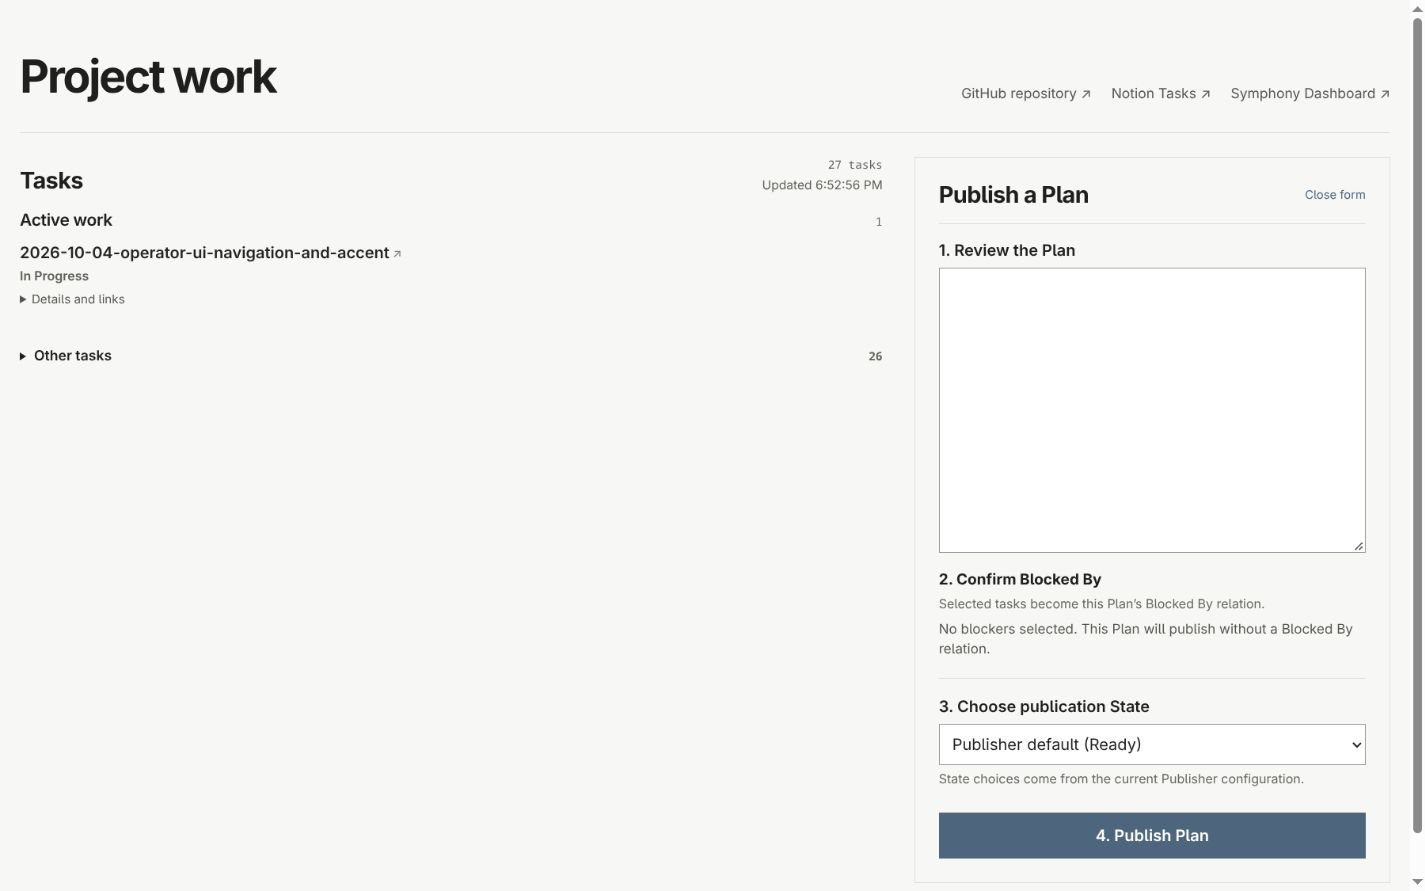
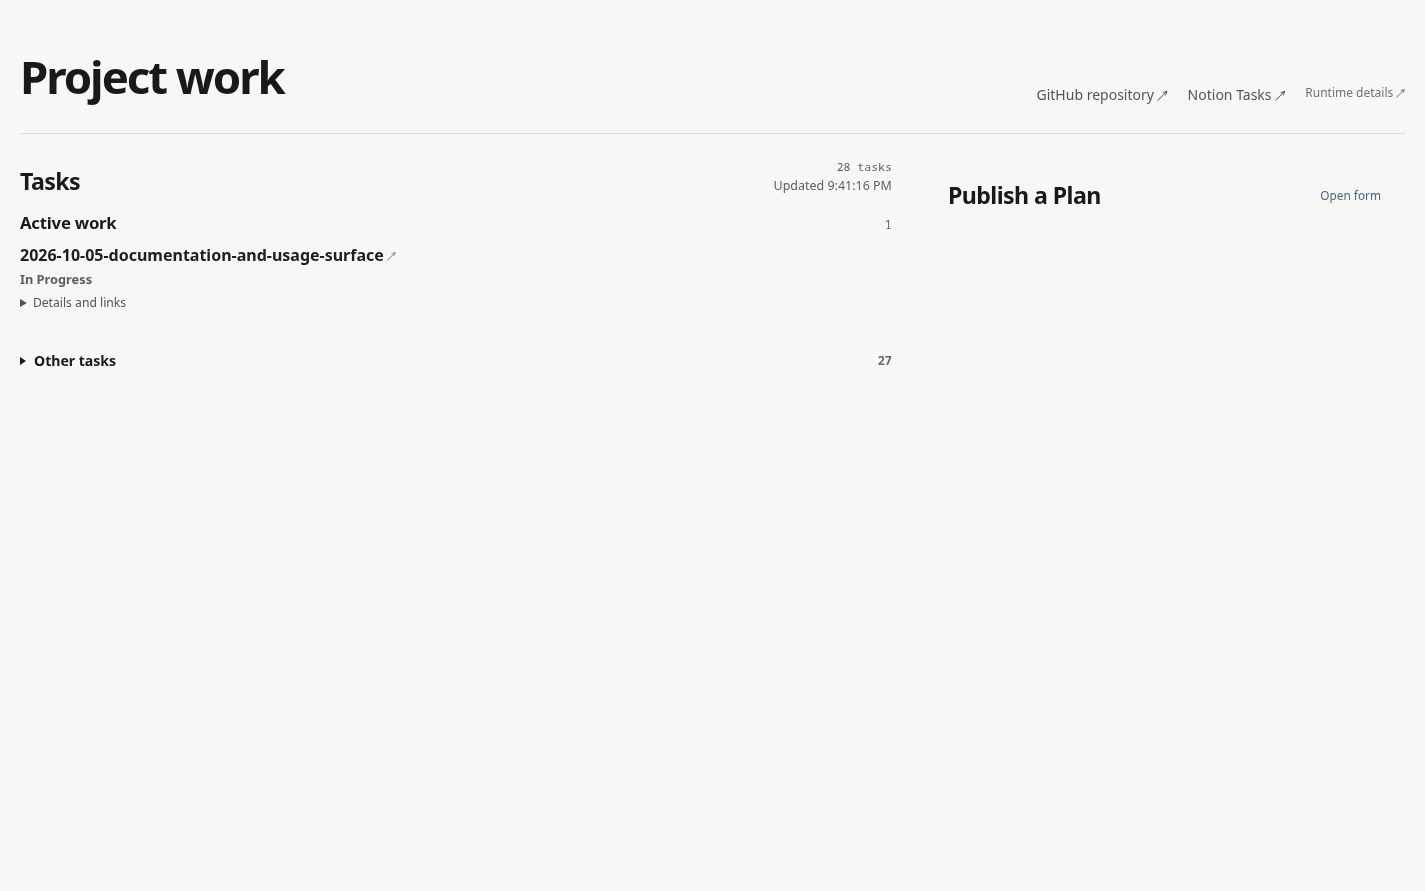
fix(ui): demote runtime diagnostics navigation

diff --git a/operator/ui/src/main.jsx b/operator/ui/src/main.jsx
@@ -322,7 +322,7 @@ function App() {
         <nav className="related-work" aria-label="Project navigation">
           {config?.githubRepositoryUrl && <a href={config.githubRepositoryUrl} target="_blank" rel="noreferrer">GitHub repository ↗</a>}
           {config?.notionTasksUrl && <a href={config.notionTasksUrl} target="_blank" rel="noreferrer">Notion Tasks ↗</a>}
-          {config?.dashboardUrl && <a href={config.dashboardUrl} target="_blank" rel="noreferrer">Symphony Dashboard ↗</a>}
+          {config?.dashboardUrl && <a className="runtime-details" href={config.dashboardUrl} target="_blank" rel="noreferrer">Runtime details ↗</a>}
         </nav>
       </header>
       <main className="work-layout">

diff --git a/operator/ui/src/style.css b/operator/ui/src/style.css
@@ -22,6 +22,7 @@ h1, h2, h3, h4, p { margin-top: 0; }
 h1 { margin-bottom: .25rem; font-size: clamp(2rem, 3.2vw, 3rem); line-height: 1.08; letter-spacing: -.045em; }
 .related-work { display: flex; flex-wrap: wrap; gap: .55rem 1.25rem; font-size: .875rem; }
 .related-work a { color: #555550; text-decoration: none; }
+.related-work .runtime-details { color: #73736d; font-size: .75rem; }
 .related-work a:hover { color: var(--accent); text-decoration: underline; text-underline-offset: .18em; }
 .work-layout { display: grid; grid-template-columns: minmax(0, 1.45fr) minmax(19rem, .8fr); align-items: start; gap: 2rem; padding-top: 1.5rem; }
 .task-surface { min-width: 0; }

diff --git a/README.md b/README.md
@@ -71,9 +71,9 @@ npm start
 
 The first start prepares the included dependencies and opens the Operator page in your browser. If it does not open automatically, visit <http://127.0.0.1:4310>. The page links to the target repository and Notion tasks, lists active and other tasks, and provides the Plan publishing form.
 
-![Operator page with the task list and Plan publishing form](docs/images/operator-overview.png)
+![Operator page with the task list and Plan publishing entry point](docs/images/operator-overview.png)
 
-_The task list is live, so its tasks and counts will change. The screenshot shows the Operator layout and main actions._
+_The task list is live, so its tasks and counts will change. Open **Publish a Plan** to enter a Plan and choose its State._
 
 The checked-in `operator/project.json` is an example configuration for this repository. Init creates a separate Project configuration for each target; you normally do not need to edit it. Advanced settings and runtime responsibilities are described in [System responsibilities and configuration](docs/SYSTEM.md).
 
@@ -105,7 +105,7 @@ The root `WORKFLOW.md` in this source repository applies to work on Leesh Loop i
 - If `npm start` reports a missing Notion value, set it in the generated Loop's `.env` or in the environment that starts the Loop, then retry.
 - If setup reports a GitHub access problem, sign in with `gh auth login` and confirm the target repository is accessible.
 - If the task list cannot refresh, check that the Notion integration still has access to the database. Plan publishing and task reading report their own errors in Operator.
-- The **Symphony Dashboard** link in the Operator header is optional runtime diagnostics for investigating a stuck or failed task. Everyday Plan publishing and task tracking happen on the Operator page.
+- The smaller **Runtime details** link in the Operator header opens the live runtime dashboard for investigating a stuck or failed task. Everyday Plan publishing and task tracking happen on the Operator page.
 
 ## Documentation
 
